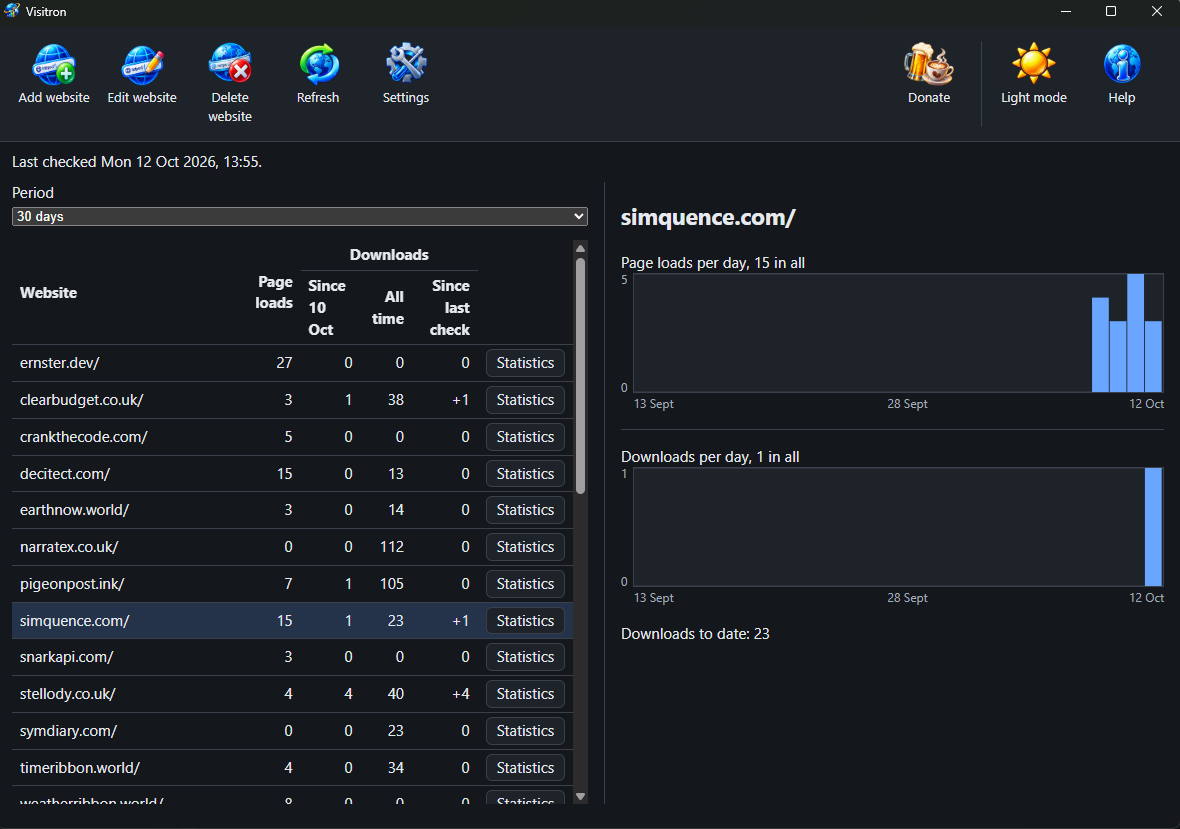
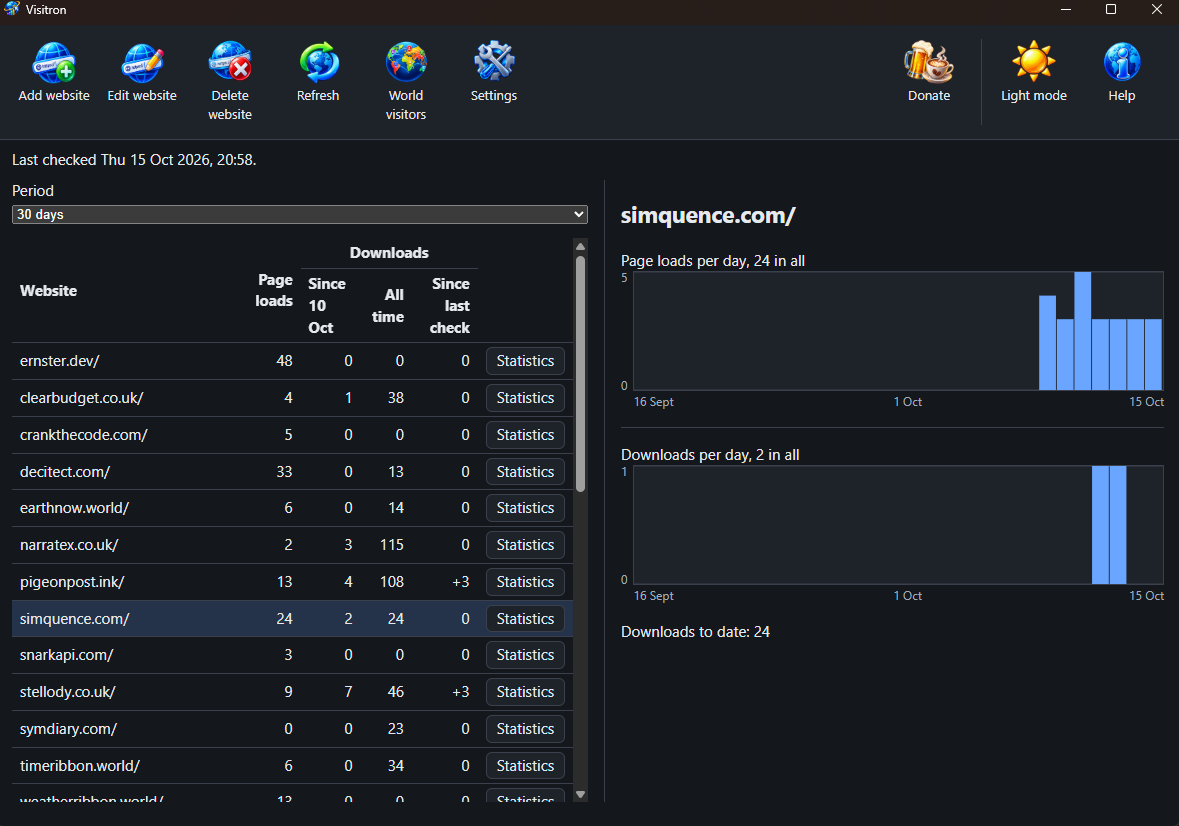
Document World visitors across the docs and the site and move to the next minor version
README, ARCHITECTURE, TESTING and DECISIONS-TRADEOFFS describe every website's visitors by country on the world map; the site gains a World visitors section with its screenshot and says the map contacts no one. VERSION moves to 1.4.0 and the site is stamped.

diff --git a/docs/features.html b/docs/features.html
@@ -4,13 +4,13 @@
 <meta charset="utf-8"/>
 <meta name="viewport" content="width=device-width, initial-scale=1"/>
 <title>Visitron features: page loads, downloads and a daily history</title>
-<meta name="description" content="What Visitron does: one list of your websites with page loads and downloads; tables by repository, release and platform; visitors by country; daily charts; repositories found by reading your site; figures that survive a failed check."/>
+<meta name="description" content="What Visitron does: one list of your websites with page loads and downloads; tables by repository, release and platform; visitors by country, with a world map across every website; daily charts; repositories found by reading your site; figures that survive a failed check."/>
 <link rel="canonical" href="https://ernster.dev/Visitron/features.html"/>
 <meta name="robots" content="index, follow, max-image-preview:large, max-snippet:-1, max-video-preview:-1"/>
 <meta property="og:type" content="website"/>
 <meta property="og:site_name" content="Visitron"/>
 <meta property="og:title" content="Visitron features: page loads, downloads and a daily history"/>
-<meta property="og:description" content="What Visitron does: one list of your websites with page loads and downloads; tables by repository, release and platform; visitors by country; daily charts; repositories found by reading your site; figures that survive a failed check."/>
+<meta property="og:description" content="What Visitron does: one list of your websites with page loads and downloads; tables by repository, release and platform; visitors by country, with a world map across every website; daily charts; repositories found by reading your site; figures that survive a failed check."/>
 <meta property="og:url" content="https://ernster.dev/Visitron/features.html"/>
 <meta property="og:image" content="https://ernster.dev/Visitron/application-icon.png"/>
 <meta property="og:image:type" content="image/png"/>
@@ -20,7 +20,7 @@
 <meta property="og:locale" content="en_GB"/>
 <meta name="twitter:card" content="summary"/>
 <meta name="twitter:title" content="Visitron features: page loads, downloads and a daily history"/>
-<meta name="twitter:description" content="What Visitron does: one list of your websites with page loads and downloads; tables by repository, release and platform; visitors by country; daily charts; repositories found by reading your site; figures that survive a failed check."/>
+<meta name="twitter:description" content="What Visitron does: one list of your websites with page loads and downloads; tables by repository, release and platform; visitors by country, with a world map across every website; daily charts; repositories found by reading your site; figures that survive a failed check."/>
 <meta name="twitter:image" content="https://ernster.dev/Visitron/application-icon.png"/>
 <meta name="twitter:image:alt" content="Visitron app icon"/>
 <link rel="icon" href="application-icon.png"/>
@@ -83,6 +83,32 @@
                      alt="A website's Statistics: downloads to date by platform, by repository and by release with the newest version first, beside its visitors by country over 30 days, largest first."/>
             </figure>
         </div>
+    </div>
+</section>
+
+<section id="world">
+    <div class="wrap">
+        <h2>Where your visitors come from</h2>
+        <p class="intro">World visitors, in the bar, puts every website's visitors
+            together on a map of the world over the period you chose. Watch new
+            countries appear as the weeks go by.</p>
+        <ul class="plain-list">
+            <li><strong>Shaded by how many came.</strong> The deeper the shade, the
+                more visitors; the steps rise on a logarithmic scale, so a country with
+                a handful still stands out beside one with hundreds. The key under the
+                map gives the counts each shade covers.</li>
+            <li><strong>The figures beside it.</strong> A table lists every country,
+                largest first; point at a country on the map to read its own.</li>
+            <li><strong>Counted once across every site.</strong> GoatCounter counts
+                them over all your websites at once, so the totals need not add up to
+                each website's own table.</li>
+            <li><strong>Nothing fetched to draw it.</strong> The map's shapes come
+                inside Visitron, so drawing it asks no map service for anything.</li>
+        </ul>
+        <figure class="shot wide">
+            <img src="screenshots/world-visitors.png" width="1089" height="672"
+                 alt="World visitors: a world map with each country shaded by its visitors over 30 days, deepest for the most, a key of the counts each shade covers beneath it and a table of every country, largest first, beside it."/>
+        </figure>
     </div>
 </section>
 

diff --git a/docs/index.html b/docs/index.html
@@ -40,7 +40,7 @@
     },
     "license": "https://www.gnu.org/licenses/gpl-3.0.html",
     "downloadUrl": "https://github.com/oernster/Visitron/releases/latest",
-    "dateModified": "2026-10-12",
+    "dateModified": "2026-10-15",
     "offers": {
         "@type": "Offer",
         "price": "0",
@@ -73,7 +73,7 @@
 
 <div class="wrap hero">
     <img class="icon" src="application-icon.png" alt="The Visitron icon."/>
-    <div class="pill">Version <!--VERSION-->1.3.0<!--/VERSION--></div>
+    <div class="pill">Version <!--VERSION-->1.4.0<!--/VERSION--></div>
     <h1>See how often your sites are read and your apps downloaded.</h1>
     <p class="lead">Visitron runs on Windows, macOS and Linux and keeps a daily
         record for every website you run: how many people read its pages and how many times
@@ -130,7 +130,8 @@
                 <p>Pick 7 days, 30 days, 90 days or a year. Each website charts its
                     page loads and downloads per day; its Statistics button opens the
                     downloads by repository, release and platform, with its visitors
-                    by country beside them.</p>
+                    by country beside them. World visitors puts every website's
+                    visitors together on a map of the world.</p>
             </div>
         </div>
         <p class="intro"><strong>Page loads need GoatCounter.</strong> Put

diff --git a/docs/why.html b/docs/why.html
@@ -93,8 +93,9 @@
             no telemetry.</p>
         <ul class="plain-list">
             <li><strong>GoatCounter</strong>, at your own account, with your key, to
-                read page loads; also, when you open a website's statistics, its
-                visitors by country.</li>
+                read page loads; also, when you open a website's statistics or World
+                visitors, the visitors by country. The world map's shapes come
+                inside Visitron, so drawing it contacts no one.</li>
             <li><strong>GitHub's API</strong>, without a login or with your token, to
                 read the download counts of the repositories you ticked.</li>
             <li><strong>Your own websites</strong>, when you add or edit one, to find

diff --git a/docs/download.html b/docs/download.html
@@ -53,7 +53,7 @@
         <p class="intro">Windows, macOS and Linux, always the newest release.
             Free and open source under the GNU GPL-3.0 licence, with no licence key
             and no paid tier.</p>
-        <span class="dl-version" id="dl-version">Version <!--VERSION-->1.3.0<!--/VERSION--></span>
+        <span class="dl-version" id="dl-version">Version <!--VERSION-->1.4.0<!--/VERSION--></span>
         <!--
             The button points at GitHub's releases/latest/download redirect, which
             always serves the newest release's file. The name carries no version,

diff --git a/DECISIONS-TRADEOFFS.md b/DECISIONS-TRADEOFFS.md
@@ -105,14 +105,34 @@ public repository, grouped by platform from the file's extension.
 ### Visitors by country, read when asked
 
 A website's visitors by country come from GoatCounter, counted over that
-website's own paths; they are read when its Statistics open rather than kept.
-Downloads have no country: GitHub does not record one.
+website's own paths; they are read when its Statistics or World visitors open
+rather than kept. Downloads have no country: GitHub does not record one.
 
 - **Rather than:** storing countries at every check; downloads by country,
   which no source offers.
 - **Gains:** no second history to keep; the figures are GoatCounter's own.
 - **Costs:** countries need the network when asked; GoatCounter counts them
   its own way, so they need not add up to page loads.
+
+### Every website's countries as one read, on a map shipped inside
+
+World visitors asks GoatCounter once for every path a recorded website owns
+and shows the answer on a world map beside a table. The map's shapes are
+bundled with the page, drawn at a scale fine enough to show small countries;
+countries are shaded in a few steps that rise on a logarithmic scale. Only
+the chosen period is shown; Visitron does not remember when a country first
+appeared.
+
+- **Rather than:** adding up each website's own figures; map tiles fetched
+  from a map service; equal shading steps; a stored history of countries.
+- **Gains:** GoatCounter does the counting across websites; the map works
+  with no extra request and nothing new learns which countries visit; a
+  country with a handful of visitors is still visibly shaded beside one with
+  hundreds.
+- **Costs:** the figures need not match the sum of the websites' own tables;
+  the shapes are most of the page's weight, so they load on the map's first
+  showing; a few very small territories have no shape and appear only in the
+  table; a new country is noticed by looking rather than flagged.
 
 ### A website is an address prefix; the longest owns a path
 

diff --git a/TESTING.md b/TESTING.md
@@ -82,12 +82,12 @@ Not gated: `internal/product` (constants), `internal/licence` (compared with
 | Suite | What it settles |
 |---|---|
 | `internal/domain` | Address reduction, repository discovery, path ownership, counted downloads, days, setting bounds, version comparison, the order of countries and releases, how a release is named. |
-| `internal/application` | Every use case over hand-written fakes: the crawl, a check, the scheduler's retry and fault recording, figures over the history, visitors by country, settings, the update check. |
+| `internal/application` | Every use case over hand-written fakes: the crawl, a check, the scheduler's retry and fault recording, figures over the history, visitors by country for one website and for every website at once, settings, the update check. |
 | Infrastructure | Each adapter against something real: a local HTTP server for the web, GitHub, GoatCounter and update clients; SQLite in a temporary folder; an in-memory keyring; a Run value of the test's own. |
-| root package | The facade end to end over a real store: conversions, the statistics, refusals, the close choice, the update offer, a panic becoming an error. |
+| root package | The facade end to end over a real store: conversions, the statistics, World visitors, refusals, the close choice, the update offer, a panic becoming an error. |
 | `./installer`, `setup` | The route setup opens on, install, repair and removal against the `setuptest` machine; a payload entry climbing out of the install folder refused; the data folder never cleared unasked. |
 | `tests/structural` | The invariants in [ARCHITECTURE.md](ARCHITECTURE.md). |
-| `frontend` | The page over a fake facade: every dialog, the list, the charts, the Help menu, the ring and the self-reading cycle. |
+| `frontend` | The page over a fake facade: every dialog, the list, the charts, the world map and its shading, the Help menu, the ring and the self-reading cycle. |
 
 ## What the tests never do
 

diff --git a/README.md b/README.md
@@ -35,7 +35,8 @@ Visitron reports counts, not people.
   GoatCounter for page loads and visitors by country, to GitHub for release
   downloads, to the website
   you add (reading its pages to find its repositories) and to GitHub once a day
-  to check for a newer Visitron, which Settings can turn off.
+  to check for a newer Visitron, which Settings can turn off. The world map's
+  shapes ship inside Visitron, so drawing it asks nothing of anyone.
 - It cannot see downloads from before its first check: GitHub keeps only
   running totals, so the daily history starts there.
 
@@ -51,6 +52,9 @@ Visitron reports counts, not people.
   downloads to date by repository, release and platform, with visitors by
   country over the period beside them, as GoatCounter counts them. Downloads
   have no country; GitHub does not record one.
+- Shows every website's visitors by country together under World visitors: a
+  world map shaded by how many came from each country over the period, with
+  the same figures in a table beside it.
 - Checks every 24 hours by default, from the tray on Windows; Refresh checks at
   once.
 - Can leave out your own downloads of each macOS disk image, if you download
@@ -66,6 +70,7 @@ Visitron reports counts, not people.
 | Language | Go; builds with no C compiler on Windows |
 | Window | Wails v2 on WebView2 (Windows), WebKit (macOS) and WebKitGTK (Linux) |
 | Page | React 18 and TypeScript, built by Vite |
+| Map | Natural Earth's 1:50m shapes from `world-atlas`, drawn with `d3-geo` |
 | History | SQLite through `modernc.org/sqlite` (pure Go) |
 | Secrets | Credential Manager, the Keychain or the Secret Service through `zalando/go-keyring` |
 | Delivery | Windows setup program, macOS DMG (Apple Silicon, notarized), Linux Flatpak |

diff --git a/ARCHITECTURE.md b/ARCHITECTURE.md
@@ -49,8 +49,9 @@ version comparison (`version.go`).
 **Application, `internal/application`.** One service per thing the owner does,
 over the ports in `ports.go`: `websites.go` (add, edit, delete, crawl),
 `check.go` (one pass over every website), `scheduler.go` (when a check is due,
-the wait after a failure), `figures.go`, `countries.go` (one website's visitors
-by country; also the one rule for whether GoatCounter is set up), `settings.go`,
+the wait after a failure), `figures.go`, `countries.go` (visitors by country,
+for one website or for every website as one read; also the one rule for
+whether GoatCounter is set up), `settings.go`,
 `update.go`, `about.go`, with `days.go` turning an instant into the calendar
 day it falls on.
 
@@ -75,10 +76,13 @@ embedded licence and its plain reading.
 
 **UI, the root package and `frontend/`.** `app.go`, `actions.go` and
 `statistics.go` are the facade: one bound method per action, converting shapes
-and calling one service.
+and calling one service. `statistics.go` answers both the Statistics dialog and
+World visitors, which share one visitors shape.
 `dto.go` holds the wire shapes; `closing.go` the close choice; `updates.go` the
 update offer; `window.go` the Wails runtime seams. The React page in
-`frontend/src` talks to the facade through `api.ts` alone.
+`frontend/src` talks to the facade through `api.ts` alone. The world map's
+shapes are most of the page's weight, so the map is a chunk of its own, loaded
+from the page's own files the first time World visitors draws it.
 
 **Setup program, `installer/`.** A second Wails application in the same module
 that embeds the built application as `payload.zip`. `installer/app.go` is a
